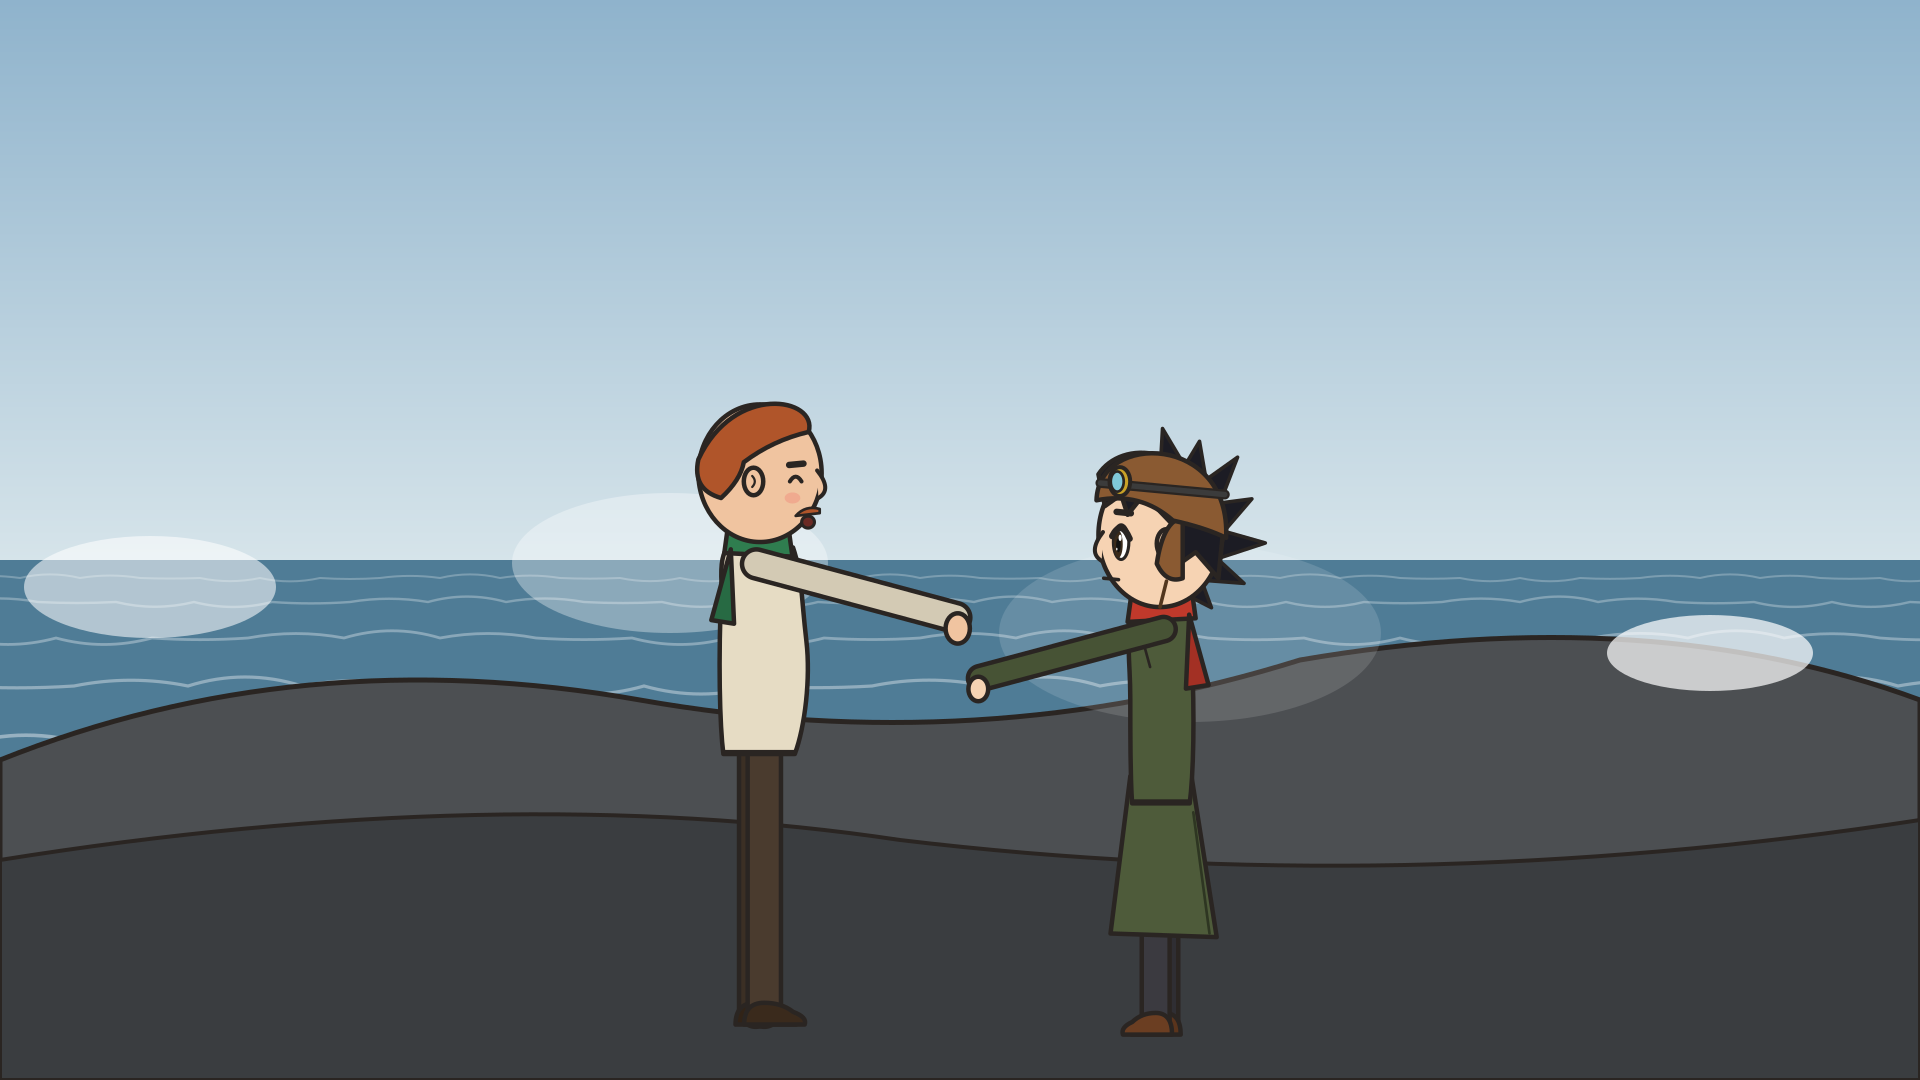
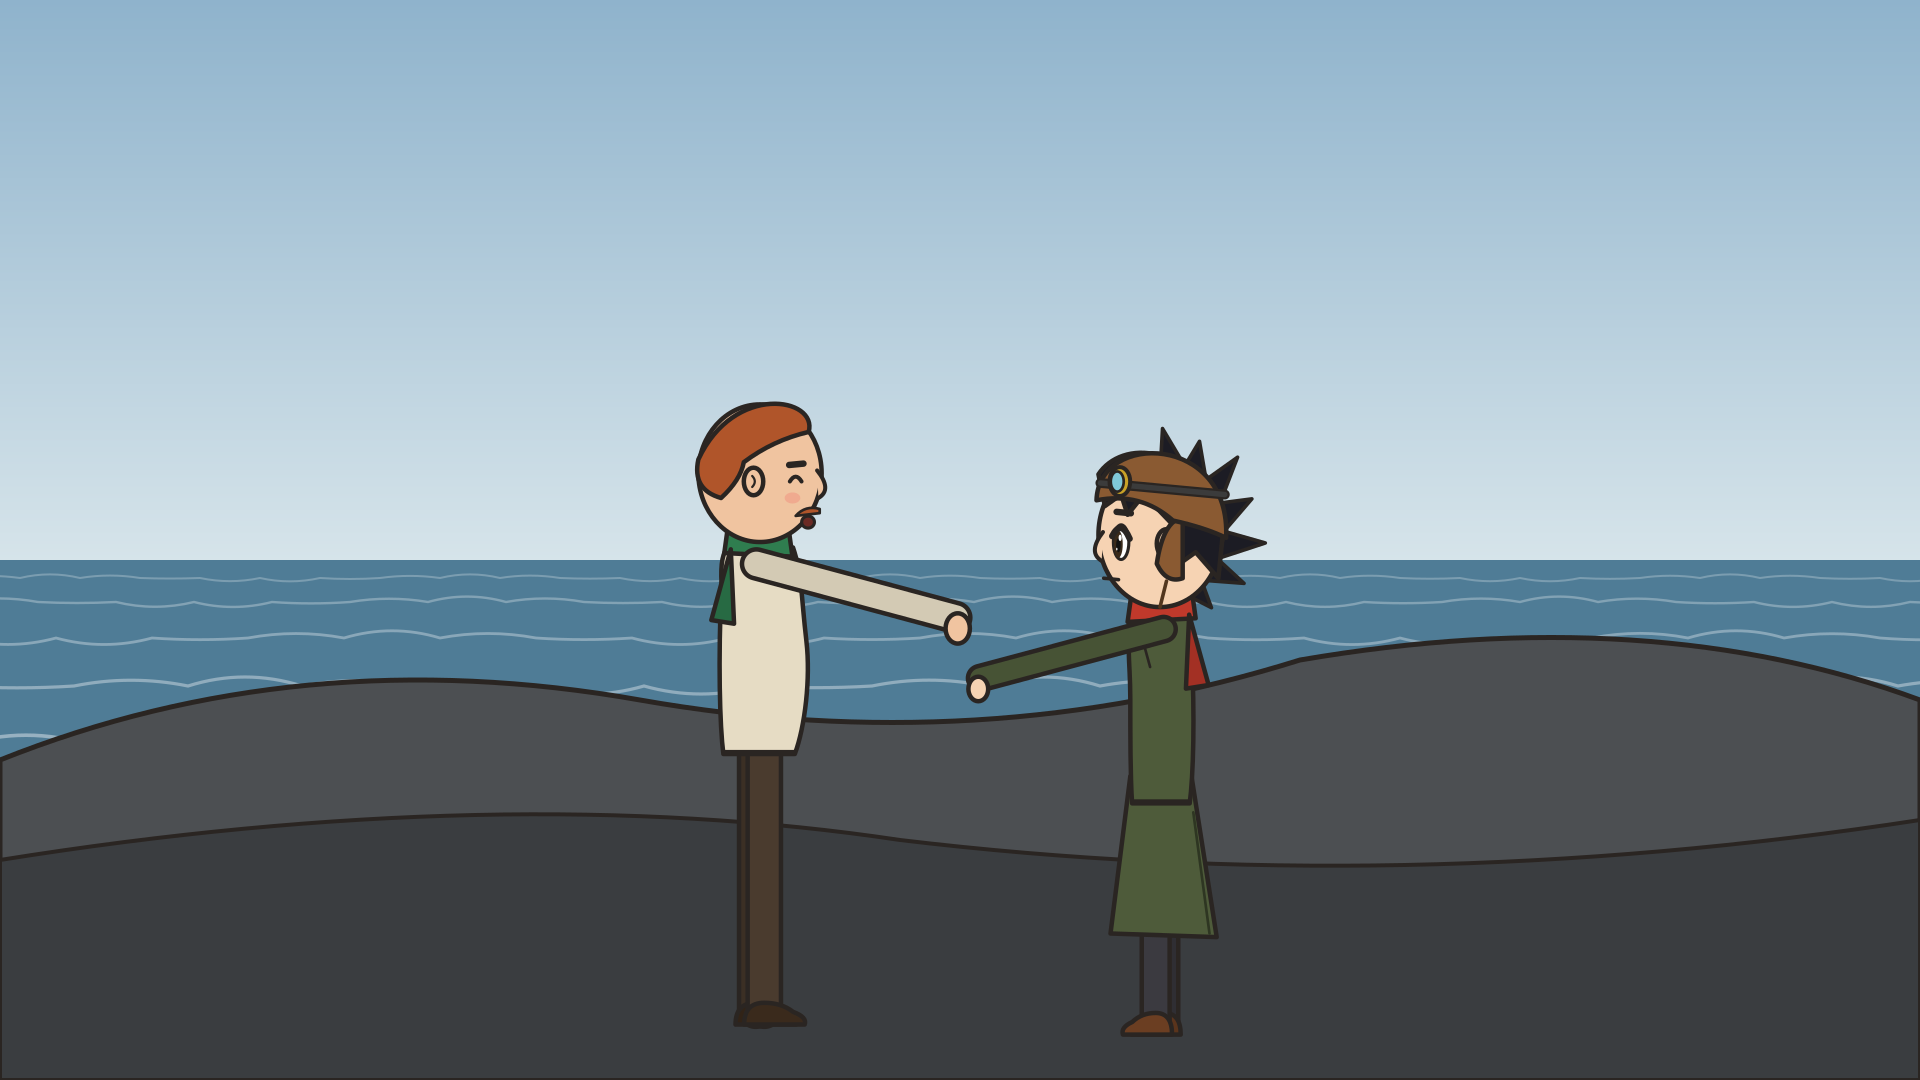
플래넌 등대 편: 5분 시험판(문단만 뺌), 동그란 파도 삭제, 배가 다가온 뒤 조명탄, 꺼진 난로 불꽃 없음
Claude-Session: https://claude.ai/code/session_01HCMiusSqCGhLJD35gTQhF1

diff --git a/카툰장면.py b/카툰장면.py
@@ -70,8 +70,9 @@ def bg_kitchen(t, cold=False, mood="storm", stopped=False):
     s += R(sx + 260 - 10, 0, 40, sy - 30, "#3d3d42", 5)
     fl = 0.0 if cold else 0.75 + 0.25 * math.sin(t * 17) * math.sin(t * 7.3)
     s += R(sx + 60, sy + 90, 180, 110, "#1a1a1a", 5, 'rx="8"')
-    s += K.P(f"M{sx + 80},{sy + 195} Q{sx + 110},{sy + 195 - 70 * fl} {sx + 150},{sy + 150} Q{sx + 175},{sy + 195 - 85 * fl} {sx + 220},{sy + 195} Z", "#f39c32", 3)
-    s += K.P(f"M{sx + 115},{sy + 195} Q{sx + 140},{sy + 195 - 40 * fl} {sx + 185},{sy + 195} Z", "#ffd76a", 0)
+    if not cold:
+        s += K.P(f"M{sx + 80},{sy + 195} Q{sx + 110},{sy + 195 - 70 * fl} {sx + 150},{sy + 150} Q{sx + 175},{sy + 195 - 85 * fl} {sx + 220},{sy + 195} Z", "#f39c32", 3)
+        s += K.P(f"M{sx + 115},{sy + 195} Q{sx + 140},{sy + 195 - 40 * fl} {sx + 185},{sy + 195} Z", "#ffd76a", 0)
     s += R(sx + 60, sy - 110, 170, 85, "#5a5f66", 5, 'rx="12"')
     for i in range(0 if cold else 3):   # 김
         ph = (t * 0.6 + i / 3) % 1
@@ -150,7 +151,7 @@ def lighthouse(x, base, h, lamp="on", t=0.0, ruin=False):
     return s
 
 
-def island(mood, t, lamp="on", present=False, ship=None, flare=False, fog=False, far=False):
+def island(mood, t, lamp="on", present=False, ship=None, flare=False, fog=False, far=False, p=0.0):
     s = sky(mood) + sea(mood, t)
     cx = 1100 if not far else 1250
     sc = 1.0 if not far else 0.6
@@ -159,17 +160,17 @@ def island(mood, t, lamp="on", present=False, ship=None, flare=False, fog=False,
     s += K.P(f"M{cx - 430 * sc},{660 - 260 * sc} L{cx - 250 * sc},{660 - 330 * sc} L{cx + 120 * sc},{660 - 350 * sc} L{cx + 380 * sc},{660 - 300 * sc} "
              f"L{cx + 360 * sc},{660 - 270 * sc} L{cx - 300 * sc},{660 - 290 * sc} Z", "#6f8a56" if mood != "night" else "#2d3d2f", 0)
     s += lighthouse(cx + 60 * sc, 660 - 345 * sc, 250 * sc, lamp if not present else "beam", t)
-    for k in range(4):   # 절벽 아래 흰 파도
-        xx = cx - 480 * sc + k * 300 * sc
-        a = 0.5 + 0.5 * math.sin(t * 1.7 + k * 1.3)
-        s += f'<ellipse cx="{xx:.0f}" cy="662" rx="{80 * sc + 30 * a:.0f}" ry="{10 + 8 * a:.0f}" fill="#ffffff" opacity="0.7"/>'
-    if ship:
-        sx = ship[0] + ship[1] * t
+    if ship:   # ship = [시작 x, 멈출 x]: 장면 앞 55% 동안 섬 쪽으로 다가와 멈춤
+        q = min(1.0, p / 0.55)
+        q = 0.5 - 0.5 * math.cos(math.pi * q)
+        sx = ship[0] + (ship[1] - ship[0]) * q
         s += boat(sx, 690, 0.8)
-    if flare:
-        ph = (t % 4.0) / 4.0
-        fy = 520 - 380 * min(1, ph * 1.6)
-        s += f'<circle cx="420" cy="{fy:.0f}" r="{10 + 30 * max(0, ph - 0.6):.0f}" fill="#ff5a3c" opacity="{0.9 * (1 - max(0, ph - 0.6) * 2.4):.2f}"/>'
+        if flare and p > 0.55:   # 배가 멈춘 뒤 그 배에서 조명탄을 쏘아 올림
+            ph = min(1.0, (p - 0.55) / 0.35)
+            fx_, fy = sx + 40 + 60 * ph, 610 - 470 * math.sin(ph * math.pi / 2)
+            s += f'<line x1="{sx + 40:.0f}" y1="610" x2="{fx_:.0f}" y2="{fy:.0f}" stroke="#ffb38a" stroke-width="3" opacity="0.5"/>'
+            s += f'<circle cx="{fx_:.0f}" cy="{fy:.0f}" r="{9 + 26 * ph:.0f}" fill="#ff5a3c" opacity="{0.95 - 0.3 * ph:.2f}"/>'
+            s += f'<circle cx="{fx_:.0f}" cy="{fy:.0f}" r="{40 + 90 * ph:.0f}" fill="#ff8a5c" opacity="{0.25 * (1 - ph) + 0.08:.2f}"/>'
     if fog or mood == "fog":
         s += f'<rect width="{W}" height="{H}" fill="#e6e9eb" opacity="0.35"/>'
     return s
@@ -185,7 +186,7 @@ def boat(x, y, sc=1.0):
 
 # ───────────────────────── 장소 배경 ─────────────────────────
 def bg_sea(t, p, o):
-    s = island(o.get("mood", "grey"), t, o.get("lamp", "on"), o.get("present", False), o.get("ship"), o.get("flare", False), far=o.get("far", False))
+    s = island(o.get("mood", "grey"), t, o.get("lamp", "on"), o.get("present", False), o.get("ship"), o.get("flare", False), far=o.get("far", False), p=p)
     if o.get("swell"):   # 먼바다 수평선이 부풀어 오름
         h = 30 + 170 * p
         s += K.P(f"M0,642 Q500,{642 - h * 0.3:.0f} 900,{642 - h:.0f} Q1300,{642 - h * 0.3:.0f} 1920,642 Z", "#3c4f6e", 4)
@@ -216,9 +217,6 @@ def bg_landing(t, p, o):
     s += f'<polyline points="{" ".join(pts)}" fill="none" stroke="#4a4a4f" stroke-width="12" stroke-linecap="round"/>'
     if o.get("flagpole", True):
         s += f'<line x1="300" y1="610" x2="300" y2="200" stroke="{OUT}" stroke-width="9"/>' + K.E(300, 196, 10, 10, "#c9a227", 4)
-    for k in range(3):
-        a = (t * 0.7 + k * 0.33) % 1
-        s += f'<ellipse cx="{200 + k * 650}" cy="{560 - 90 * math.sin(math.pi * a):.0f}" rx="{120 + 80 * a:.0f}" ry="{40 + 50 * a:.0f}" fill="#ffffff" opacity="{0.75 * (1 - a):.2f}"/>'
     if o.get("wet", False):
         s += f'<rect width="{W}" height="{H}" fill="#9fb4c4" opacity="0.12"/>'
     return s
@@ -317,10 +315,6 @@ def bg_rocks(t, p, o):
     s = sky(mood, 560) + sea(mood, t, 560, 1.8)
     s += K.P("M0,760 Q300,640 640,700 Q980,760 1300,660 Q1650,600 1920,700 L1920,1080 L0,1080 Z", "#4c4f52", 5)
     s += K.P("M0,860 Q500,780 900,840 Q1400,900 1920,820 L1920,1080 L0,1080 Z", "#3a3d40", 4)
-    for k in range(4):
-        a = (t * 0.6 + k * 0.27) % 1
-        x = 150 + k * 520
-        s += f'<ellipse cx="{x}" cy="{700 - 140 * math.sin(math.pi * a):.0f}" rx="{90 + 120 * a:.0f}" ry="{30 + 70 * a:.0f}" fill="#ffffff" opacity="{0.8 * (1 - a):.2f}"/>'
     return s
 
 
@@ -349,7 +343,7 @@ def bg_wave(t, p, o):
         a = (t * 0.8 + k / 14) % 1
         x = 1150 + 300 * math.cos(k * 2.1) * a
         y = 1080 - h - 200 * a + 40 * math.sin(k)
-        s += f'<circle cx="{x:.0f}" cy="{y:.0f}" r="{20 + 50 * a:.0f}" fill="#ffffff" opacity="{0.7 * (1 - a):.2f}"/>'
+        s += f'<line x1="{x:.0f}" y1="{y:.0f}" x2="{x + 60 * math.cos(k * 2.1):.0f}" y2="{y - 50 - 40 * a:.0f}" stroke="#ffffff" stroke-width="{10 - 6 * a:.1f}" stroke-linecap="round" opacity="{0.75 * (1 - a):.2f}"/>'
     if o.get("silhouette"):
         for k in range(3):
             x = 1440 + k * 60

diff --git a/연재/플래넌등대/플래넌등대_단편.py b/연재/플래넌등대/플래넌등대_단편.py
@@ -12,6 +12,9 @@ HERE = os.path.dirname(os.path.abspath(__file__))
 ROOT = os.path.dirname(os.path.dirname(HERE))
 TITLE = "꺼진 등불 — 플래넌 섬의 마지막 밤"
 SCN = os.path.join(HERE, "장면")
+# 5분 시험판에 남기는 장면 (나머지 문단은 뺌)
+SHORT5 = ["c01", "c02", "c04", "c05", "c06", "c07", "c08", "c09", "c11", "c12", "c13", "c14", "c18", "c19", "c26", "c27",
+          "c30", "c31", "c32", "c33", "c34", "c36", "c37", "c38", "c39", "c40", "c41", "c46", "c48", "c50", "c51"]
 
 
 def read_script():
@@ -45,6 +48,19 @@ def main():
         out = os.path.join(HERE, "플래넌등대_단편.json")
         json.dump(proj, open(out, "w", encoding="utf-8"), ensure_ascii=False, indent=1)
         print(out, len(story), "chars", len(cuts), "cuts")
+    elif cmd == "project5":   # 5분 시험판 (사용자 결정 2026-11-05): 문단을 빼기만 함 → 이미 녹음한 문장을 그대로 씀
+        full = json.load(open(os.path.join(HERE, "플래넌등대_단편.json"), encoding="utf-8"))
+        blocks = re.split(r"(?=\[사진: [^\]]*?/(c\d+)\.png)", full["story"])
+        keep, out_ = set(SHORT5), []
+        for b in blocks:
+            m = re.match(r"\[사진: [^\]]*?/(c\d+)\.png", b)
+            if m and m.group(1) in keep:
+                out_.append(b.strip())
+        proj = dict(full, story="\n\n".join(out_), title=TITLE, notes=full["notes"] + " — 5분 시험판")
+        out = os.path.join(HERE, "플래넌등대_5분.json")
+        json.dump(proj, open(out, "w", encoding="utf-8"), ensure_ascii=False, indent=1)
+        body = re.sub(r"\[사진:[^\]]*\]", "", proj["story"])
+        print(out, len(out_), "cuts", len(re.sub(r"\n+", "\n", body).strip()), "chars")
     elif cmd == "stills":
         import importlib.util
         import cairosvg

diff --git a/연재/플래넌등대/장면_설정.py b/연재/플래넌등대/장면_설정.py
@@ -25,7 +25,7 @@ def close(who, x=960, view="front", act=None, sc=2.4, eye_y=470):
 
 S = {
  "c01": {"bg": "sea", "opt": {"mood": "storm", "lamp": "off"}, "chars": [], "fx": ["fade_in"]},
- "c02": {"bg": "sea", "opt": {"mood": "grey", "lamp": "off", "far": True, "ship": [-150, 40], "flare": True}, "chars": []},
+ "c02": {"bg": "sea", "opt": {"mood": "grey", "lamp": "off", "far": True, "ship": [-150, 560], "flare": True}, "chars": []},
  "c03": {"bg": "landing", "opt": {"mood": "grey"}, "chars": []},
  "c04": {"bg": "stairs", "chars": [ch(J, 1350, "left", ["run", "blink"], 0.75, y=1010, x_to=620, y_to=440, speed=1.1)]},
  "c05": {"bg": "kitchen", "opt": {"cold": True, "stopped": True, "mood": "grey"}, "chars": [ch(J, 1100, "front", ["blink", "shiver"])]},
@@ -63,7 +63,7 @@ S = {
  "c37": {"bg": "lantern", "opt": {"mood": "storm", "light": "flicker", "console": True}, "chars": [ch(H, 960, "front", ["blink", "shiver"], 0.95, y=1260)]},
  "c38": {"bg": "lantern", "opt": {"mood": "storm", "light": "flicker", "console": True}, "chars": [ch(H, 960, "front", ["blink", "breath", "talk"], 1.0, y=1200)], "fx": ["glow"]},
  "c39": {"bg": "lantern", "opt": {"mood": "night", "light": "dim"}, "chars": [ch(H, 960, "front", ["closed", "breath"], 1.0, y=1100, opacity=0.85)], "fx": ["glow"]},
- "c40": {"bg": "sea", "opt": {"mood": "night", "lamp": "off", "far": True, "ship": [-200, 30]}, "chars": []},
+ "c40": {"bg": "sea", "opt": {"mood": "night", "lamp": "off", "far": True, "ship": [-200, 900]}, "chars": []},
  "c41": {"bg": "sea", "opt": {"mood": "day", "present": True}, "chars": [ch(H, 380, "back", LIVE, 0.95, y=1120)]},
  "c42": {"bg": "ring", "chars": [ch(H, 1500, "left", ["blink", "breath"], 1.0, y=1100)]},
  "c43": {"bg": "crevice", "chars": []},
